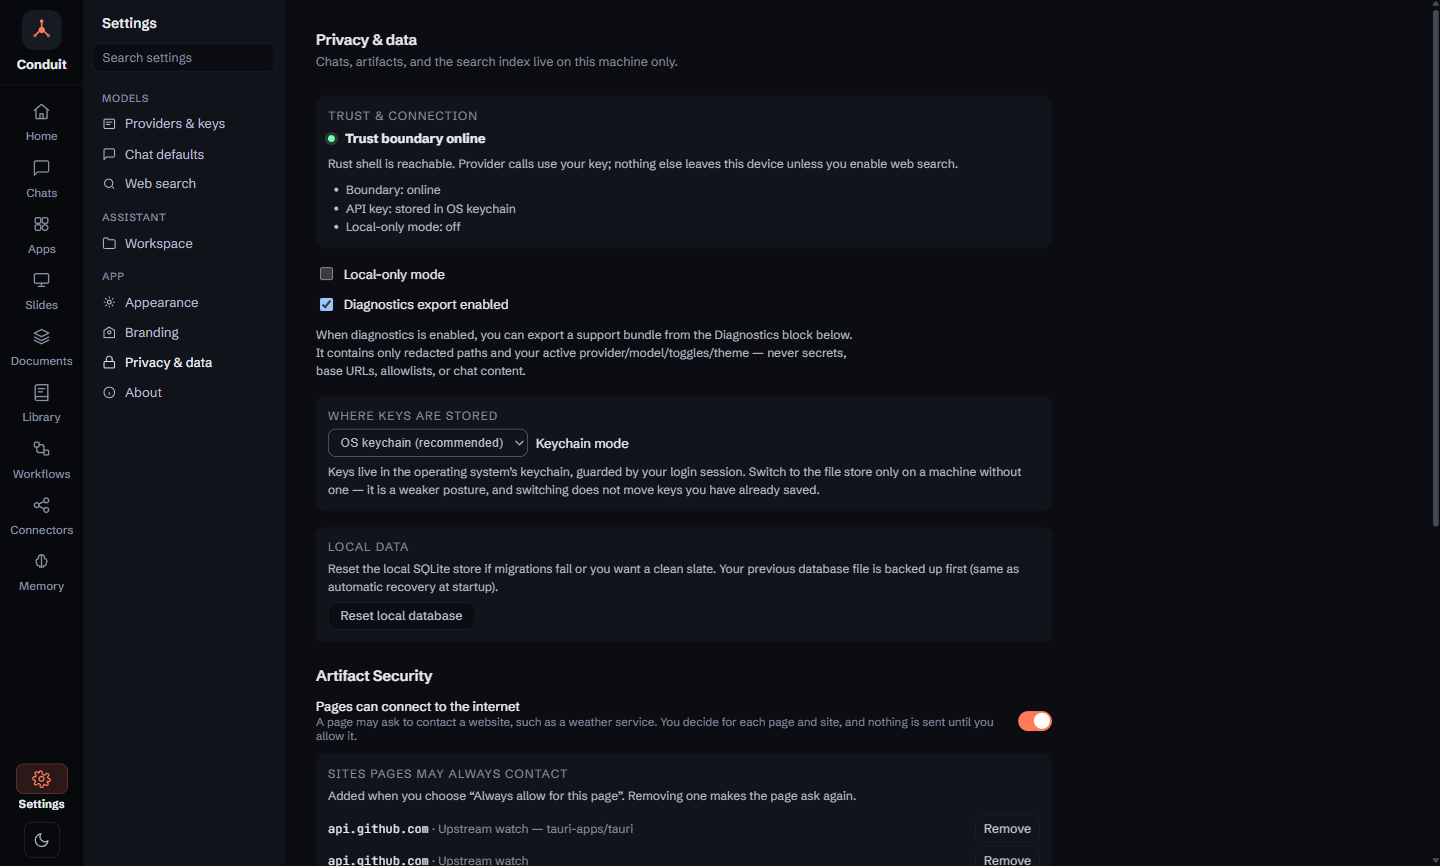
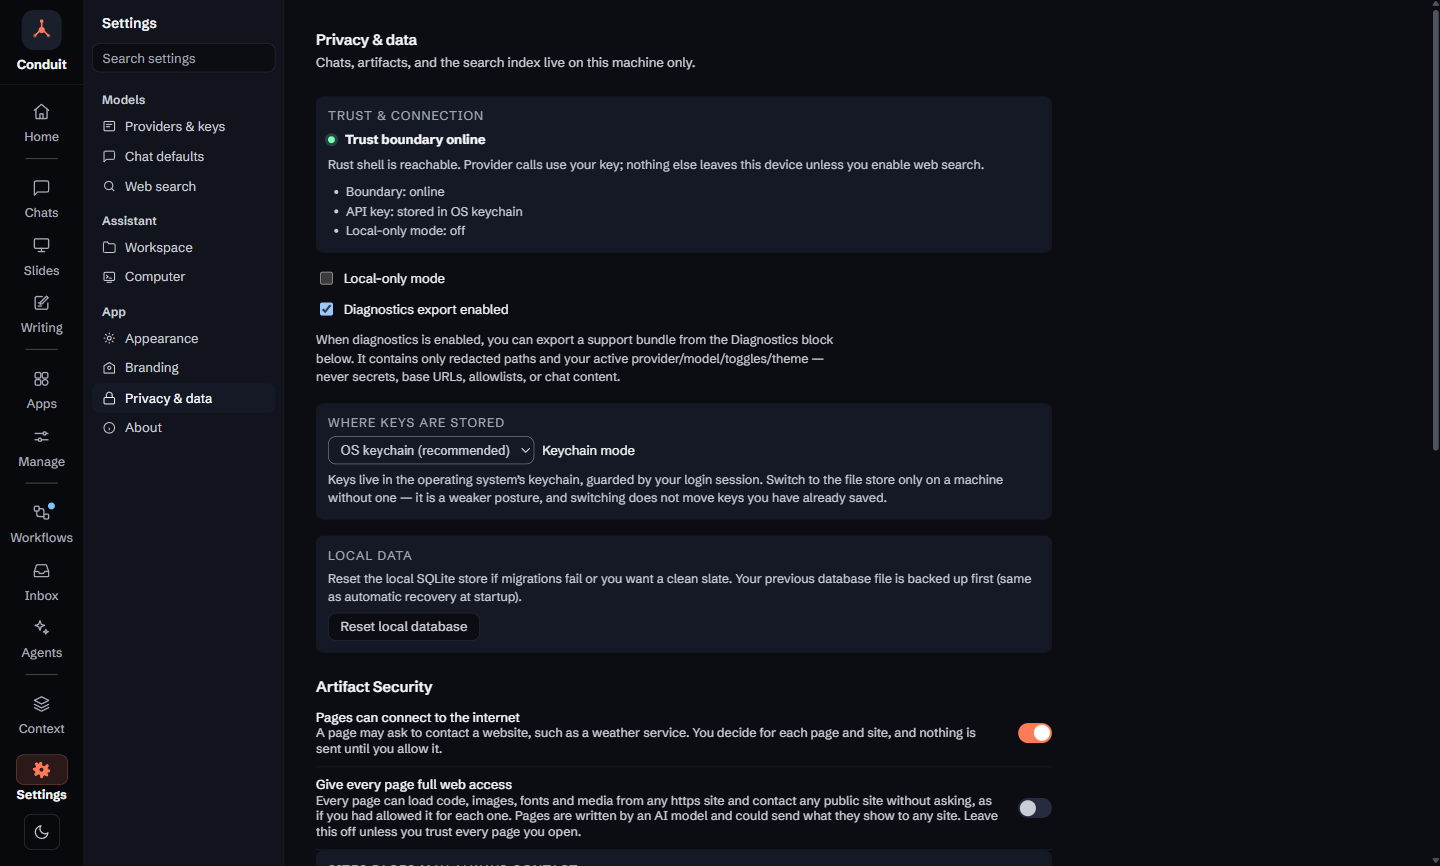
README screenshots in the rc.12 design
Retakes the 16 README screenshots on the Ferry demo profile with
v1.0.0-rc.12: the grouped rail, the new type and colours, the workflow
canvas, and the model-consent prompt as it reads with a cloud provider.
Alt texts updated to match in all eight READMEs.

Claude-Session: https://claude.ai/code/session_01B5pDosonionWBY7e9gKYwg

diff --git a/README.fr.md b/README.fr.md
@@ -51,7 +51,7 @@ côté, contient les détails, l'accès réseau et les apps de départ), et elle
 continue de fonctionner après la suppression de la conversation. Le tableau de bord ci-dessus en est une : elle appelle l'API
 GitHub en direct, après avoir demandé une fois l'autorisation pour ce site.
 
-![La page Apps : trois apps personnelles (Upstream watch, un minuteur Pomodoro et un convertisseur d'unités), et les apps de départ que vous pouvez ajouter](./docs/assets/screenshot-apps.png)
+![La page Apps : six apps personnelles sous forme de cartes (Budget tracker, Snake, Weather dashboard, Pomodoro timer, Unit converter, Upstream watch), chacune avec ce qu’elle peut faire](./docs/assets/screenshot-apps.png)
 
 Les apps personnelles peuvent faire trois choses qu'une simple page cloisonnée
 ne peut pas, chacune déclarée par la page et vérifiée par Conduit :
@@ -76,7 +76,7 @@ d'une ligne, jamais les prompts, les réponses ni les valeurs enregistrées. Neu
 **apps de départ** sont fournies, d'un minuteur Pomodoro à un tableau de bord
 météo en direct.
 
-![Une page demandant à utiliser le modèle d'IA : la demande nomme LM Studio et indique qu'il s'exécute sur cet appareil](./docs/assets/screenshot-llm-consent.png)
+![Une app personnelle demandant à utiliser le modèle d'IA : la demande nomme OpenRouter, indique que ce que la page écrit lui est envoyé, et propose Ne pas autoriser, Autoriser cette fois ou Toujours autoriser](./docs/assets/screenshot-llm-consent.png)
 
 ### Présentations
 
@@ -198,7 +198,7 @@ activation des exécutions automatiques affiche tout ce que le flux sera autoris
 s'interrompt et demande. Une exécution qui attend votre réponse reprend après
 un redémarrage de Conduit.
 
-![Un flux « Tauri blog digest » rédigé à partir d’une description d’une ligne : il surveille le flux du blog Tauri, résume chaque nouvel article avec un modèle choisi pour cette étape, enregistre un document et prévient ; en dessous, ce qu’il peut faire seul et sa première exécution de test](./docs/assets/screenshot-workflows.png)
+![Un flux « Weekly Ferry team brief » sur le canevas : deux pages récupérées et résumées côte à côte, puis combinées, chaque étape terminée ; à droite, le résultat de la dernière exécution](./docs/assets/screenshot-workflows.png)
 
 Un flux s'ouvre sur un **canevas** : un nœud par étape, dont l'état s'affiche en
 direct pendant l'exécution. Vous pouvez aussi modifier sur le canevas : ajoutez
@@ -277,7 +277,7 @@ celui que vous avez utilisé en dernier. `Ctrl+1` à `Ctrl+9` (`⌘` sur macOS)
 mènent aux espaces (`Ctrl+/` indique lequel est lequel), et la palette de
 commandes (`Ctrl+K`) propose une entrée « Aller à » pour chacun.
 
-![Accueil : la zone de saisie avec des démarrages rapides, deux suggestions de mémoire en attente de revue, ainsi que les conversations récentes et la présentation du post-mortem à reprendre](./docs/assets/screenshot-home.png)
+![Accueil : la zone de saisie avec des démarrages rapides, deux suggestions de mémoire qui vous attendent, un résultat récent de flux de travail, ainsi que la présentation, la conversation et le brouillon à reprendre](./docs/assets/screenshot-home.png)
 
 ### Tous les modèles, et le web
 
@@ -296,7 +296,7 @@ dans les Réglages pour obtenir une clé. Des listes de domaines autorisés et
 bloqués la restreignent, et les sources s'affichent avec la réponse et dans
 l'inspecteur.
 
-![Une réponse de recherche web sur Rust 1.90 avec une ligne de recherche (6 sources) et des citations en ligne, reliée à Ferry par la mémoire](./docs/assets/screenshot-search.png)
+![Une réponse de recherche web sur Rust 1.90 avec une ligne de recherche (6 sources) et des citations en ligne](./docs/assets/screenshot-search.png)
 
 Le **+** de la zone de saisie joint des fichiers (images et documents) et ajoute
 la recherche web, un dossier de l'espace de travail que l'assistant peut lire et
@@ -419,7 +419,7 @@ Voir [`CHANGELOG.md`](./CHANGELOG.md) pour le détail de chaque version.
   manuelle ; la recherche en arrière-plan et l'installation à la fermeture sont
   facultatives, et Conduit ne redémarre jamais de lui-même.
 
-![Paramètres → Vie privée & données : l'état de la frontière de confiance, le mode local uniquement, l'endroit où les clés sont stockées et les sites que les pages peuvent toujours contacter](./docs/assets/screenshot-privacy.png)
+![Paramètres → Vie privée & données : l'état de la frontière de confiance, le mode local uniquement, l'export de diagnostics, l'endroit où les clés sont stockées, les données locales et les réglages de sécurité des artefacts](./docs/assets/screenshot-privacy.png)
 
 ## État
 

diff --git a/README.zh-CN.md b/README.zh-CN.md
@@ -43,7 +43,7 @@ Rust 和 Tauri 开发。
 网络访问和入门应用）中打开它，即使删除了那段聊天，它也能继续使用。上面的仪表盘就是一个例子：它会实时调用
 GitHub API，并且只在首次访问该网站时询问一次。
 
-![应用页面：三个个人应用（上游动态、番茄钟和单位换算器），以及可以添加的入门应用](./docs/assets/screenshot-apps.png)
+![应用页面：六个个人应用以卡片显示（Budget tracker、Snake、Weather dashboard、Pomodoro timer、Unit converter、Upstream watch），每个都标明可以做什么](./docs/assets/screenshot-apps.png)
 
 个人应用可以做到三件沙箱里的普通网页做不到的事，每一件都由页面声明、由 Conduit
 检查：
@@ -62,7 +62,7 @@ GitHub API，并且只在首次访问该网站时询问一次。
 绝不包含提示词、回复或已保存的值。内置九个**入门应用**，从番茄钟到实时天气仪表盘
 一应俱全。
 
-![一个请求使用 AI 模型的页面：提示写明了 LM Studio，并说明它运行在这台设备上](./docs/assets/screenshot-llm-consent.png)
+![一个个人应用请求使用 AI 模型：提示写明了 OpenRouter，说明页面写入的内容会发送到那里，并提供“不允许”“仅本次允许”“始终允许”](./docs/assets/screenshot-llm-consent.png)
 
 ### 幻灯片
 
@@ -145,7 +145,7 @@ GitHub API，并且只在首次访问该网站时询问一次。
 首次开启自动运行时，会先列出该工作流被允许自行完成的所有操作，供你批准；需要更多
 权限的运行会暂停并询问。正在等你处理的运行，在你重启 Conduit 后会继续进行。
 
-![一个由一句话描述起草的“Tauri blog digest”工作流：它监视 Tauri 博客的订阅源，用为该步骤选定的模型总结每篇新文章，保存为文档并发出通知；下方是它可以自行执行的操作及第一次测试运行](./docs/assets/screenshot-workflows.png)
+![画布上的“Weekly Ferry team brief”工作流：两个页面并排抓取并总结，再合并，每个步骤均已完成；右侧是最近一次运行的结果](./docs/assets/screenshot-workflows.png)
 
 工作流以**画布**的形式打开：每个步骤是一个节点，运行时会实时显示其状态。在画布上也
 可以编辑：从菜单添加步骤，拖到合适的位置，再从一个步骤的输出连线到另一个步骤的
@@ -197,7 +197,7 @@ GitHub API，并且只在首次访问该网站时询问一次。
 区域（`Ctrl+/` 会列出哪个键对应哪个区域），命令面板（`Ctrl+K`）中每个区域也都有
 一个“前往”条目。
 
-![首页：带有快速开始的输入框、两条等待查看的记忆建议，以及可以继续的最近聊天和复盘演示文稿](./docs/assets/screenshot-home.png)
+![首页：带有快速开始的输入框、两条需要你处理的记忆建议、一条新的工作流结果，以及可以继续的演示文稿、聊天和草稿](./docs/assets/screenshot-home.png)
 
 ### 任意模型，以及网络
 
@@ -211,7 +211,7 @@ Fireworks AI、LM Studio、Ollama，或任何兼容 OpenAI 的接口。当聊天
 Brave 或你自己的 SearXNG）进行搜索，设置中还有获取密钥的链接。允许与屏蔽的域名
 列表可以缩小搜索范围，来源会显示在回答中以及检查器里。
 
-![一个关于 Rust 1.90 的网页搜索回答，带有搜索行（6 个来源）和内联引用，并通过记忆与 Ferry 关联起来](./docs/assets/screenshot-search.png)
+![一个关于 Rust 1.90 的网页搜索回答，带有搜索行（6 个来源）和内联引用](./docs/assets/screenshot-search.png)
 
 输入区里的 **+** 可以附加文件（图像和文档），并添加网页搜索、助手可读写的工作区
 文件夹、文档集合、技能和连接器提示词。一轮回复进行期间，你可以排队追加一条后续消息，或者打断并引导
@@ -301,7 +301,7 @@ Brave 或你自己的 SearXNG）进行搜索，设置中还有获取密钥的链
 - **没有遥测。** 更新检查需要主动开启，且仅发送 `Conduit-Updater/<version>`。
   默认仅手动检查；后台检查与退出时安装均需主动开启，且 Conduit 绝不会自行重启。
 
-![设置 → 隐私与数据：信任边界状态、仅本地模式、密钥的存放位置，以及页面可始终访问的网站](./docs/assets/screenshot-privacy.png)
+![设置 → 隐私与数据：信任边界状态、仅本地模式、诊断导出、密钥的存放位置、本地数据和构件安全开关](./docs/assets/screenshot-privacy.png)
 
 ## 状态
 

diff --git a/README.de.md b/README.de.md
@@ -51,7 +51,7 @@ daneben enthält Details, Netzwerkzugriff und Starter-Apps), und sie
 funktioniert weiter, auch wenn Sie den Chat löschen. Das Dashboard oben ist eine solche App: Es ruft die GitHub-API live ab,
 nachdem es einmal für diese Website nachgefragt hat.
 
-![Die Apps-Seite: drei persönliche Apps (Upstream watch, ein Pomodoro-Timer und ein Einheitenumrechner) und die Starter-Apps, die Sie hinzufügen können](./docs/assets/screenshot-apps.png)
+![Die Apps-Seite: sechs persönliche Apps als Karten (Budget tracker, Snake, Weather dashboard, Pomodoro timer, Unit converter, Upstream watch), jeweils mit dem, was sie tun dürfen](./docs/assets/screenshot-apps.png)
 
 Persönliche Apps können drei Dinge, die eine einfache Seite in einer Sandbox
 nicht kann, jeweils von der Seite deklariert und von Conduit geprüft:
@@ -75,7 +75,7 @@ Websites und Anbieter, die sie nutzen darf, und eine Woche einzeiliger
 Aktivitätseinträge, nie Prompts, Antworten oder gespeicherte Werte. Neun
 **Starter-Apps** sind eingebaut, vom Pomodoro-Timer bis zum Live-Wetter-Dashboard.
 
-![Eine Seite, die um die Nutzung des KI-Modells bittet: Die Abfrage nennt LM Studio und sagt, dass es auf diesem Gerät läuft](./docs/assets/screenshot-llm-consent.png)
+![Eine persönliche App bittet um die Nutzung des KI-Modells: Die Abfrage nennt OpenRouter, sagt, dass die Eingaben der Seite dorthin gesendet werden, und bietet Nicht erlauben, Dieses Mal erlauben und Immer erlauben](./docs/assets/screenshot-llm-consent.png)
 
 ### Folien
 
@@ -192,7 +192,7 @@ der Workflow von selbst tun darf, und kann es freigeben; ein Durchlauf, der mehr
 braucht, hält an und fragt nach. Ein Durchlauf, der auf Sie wartet, läuft nach
 einem Neustart von Conduit weiter.
 
-![Ein Workflow „Tauri blog digest“, aus einer einzeiligen Beschreibung entworfen: Er beobachtet den Feed des Tauri-Blogs, fasst jeden neuen Beitrag mit einem für diesen Schritt gewählten Modell zusammen, speichert ein Dokument und benachrichtigt; darunter, was er allein tun darf, und sein erster Testlauf](./docs/assets/screenshot-workflows.png)
+![Ein Workflow „Weekly Ferry team brief“ auf der Arbeitsfläche: zwei Seiten werden nebeneinander abgerufen und zusammengefasst, dann zusammengeführt, jeder Schritt abgeschlossen; rechts das Ergebnis des letzten Laufs](./docs/assets/screenshot-workflows.png)
 
 Ein Workflow öffnet sich als **Zeichenfläche**: ein Knoten pro Schritt, dessen
 Status während des Laufs live angezeigt wird. Auch das Bearbeiten geht auf der
@@ -271,7 +271,7 @@ genutzt haben. `Ctrl+1` bis `Ctrl+9` (`⌘` unter macOS) springen zu den
 Bereichen (`Ctrl+/` zeigt, welcher welcher ist), und die Befehlspalette
 (`Ctrl+K`) hat zu jedem einen Eintrag „Gehe zu“.
 
-![Start: das Eingabefeld mit Schnellstarts, zwei Vorschläge für gespeicherte Fakten, die auf Prüfung warten, sowie letzte Chats und die Postmortem-Präsentation zum Weitermachen](./docs/assets/screenshot-home.png)
+![Start: das Eingabefeld mit Schnellstarts, zwei Vorschläge für gespeicherte Fakten, die Sie brauchen, ein frisches Workflow-Ergebnis sowie Präsentation, Chat und Entwurf zum Weitermachen](./docs/assets/screenshot-home.png)
 
 ### Jedes Modell und das Web
 
@@ -288,7 +288,7 @@ sucht über Exa, das keinen Schlüssel braucht, oder über einen Dienst Ihrer Wa
 einen Schlüssel zu holen. Listen erlaubter und gesperrter Domains grenzen sie
 ein, und Quellen werden mit der Antwort und im Inspektor angezeigt.
 
-![Eine Websuche-Antwort zu Rust 1.90 mit einer Suchzeile (6 Quellen) und Inline-Quellenangaben, über gespeicherte Fakten mit Ferry verknüpft](./docs/assets/screenshot-search.png)
+![Eine Websuche-Antwort zu Rust 1.90 mit einer Suchzeile (6 Quellen) und Inline-Quellenangaben](./docs/assets/screenshot-search.png)
 
 Das **+** im Eingabefeld hängt Dateien (Bilder und Dokumente) an und fügt
 Websuche, einen Arbeitsbereich-Ordner, den der Assistent lesen und bearbeiten
@@ -409,7 +409,7 @@ Siehe [`CHANGELOG.md`](./CHANGELOG.md) für alles, was in jeder Version enthalte
   Hintergrundsuche und Installation beim Beenden sind optional, und Conduit
   startet sich nie selbst neu.
 
-![Einstellungen → Datenschutz & Daten: der Status der Vertrauensgrenze, der Nur-lokal-Modus, wo Schlüssel gespeichert sind und die Websites, die Seiten immer kontaktieren dürfen](./docs/assets/screenshot-privacy.png)
+![Einstellungen → Datenschutz & Daten: der Status der Vertrauensgrenze, der Nur-lokal-Modus, der Diagnose-Export, wo Schlüssel gespeichert sind, lokale Daten und die Sicherheitsschalter für Artefakte](./docs/assets/screenshot-privacy.png)
 
 ## Status
 

diff --git a/README.md b/README.md
@@ -46,7 +46,7 @@ you delete the chat.
 The dashboard above is one: it calls the GitHub API live, after asking once for
 that site.
 
-![The Apps page: three personal apps (Upstream watch, a Pomodoro timer and a unit converter), and the starter apps you can add](./docs/assets/screenshot-apps.png)
+![The Apps page: six personal apps as cards (Budget tracker, Snake, Weather dashboard, Pomodoro timer, Unit converter, Upstream watch), each showing what it may do](./docs/assets/screenshot-apps.png)
 
 Personal apps can do three things a plain page in a sandbox can't, each
 declared by the page and checked by Conduit:
@@ -66,7 +66,7 @@ the sites and providers it may use, and a week of one-line activity records,
 never prompts, replies or saved values. Nine **starter apps** come built in,
 from a Pomodoro timer to a live weather dashboard.
 
-![A page asking to use the AI model: the prompt names LM Studio and says it runs on this device](./docs/assets/screenshot-llm-consent.png)
+![A personal app asking to use the AI model: the prompt names OpenRouter, says what the page writes is sent there, and offers Don't allow, Allow this time or Always allow](./docs/assets/screenshot-llm-consent.png)
 
 ### Slides
 
@@ -168,7 +168,7 @@ automatic runs on first lists everything the workflow will be allowed to do on
 its own, for you to approve, and a run that needs more pauses and asks. A run
 that is waiting for you carries on after you restart Conduit.
 
-![A "Tauri blog digest" workflow drafted from a one-line description: it watches the Tauri blog feed, summarises each new post with a model chosen for that step, saves a document and notifies; below, what it may do on its own and its first test run](./docs/assets/screenshot-workflows.png)
+![A "Weekly Ferry team brief" workflow on the canvas: two pages fetched and summarised side by side, then combined, every step finished; on the right, the latest run's result](./docs/assets/screenshot-workflows.png)
 
 A workflow opens as a **canvas**: a node for each step, with its status shown
 live while it runs. Edit on the canvas too: add steps from a menu, drag them
@@ -233,7 +233,7 @@ reopens on the one you used last. `Ctrl+1` to `Ctrl+9` (`⌘` on macOS) jump to
 the areas (`Ctrl+/` lists which is which), and the command palette (`Ctrl+K`)
 has a "Go to" entry for each.
 
-![Home: the ask box with quick starts, two memory suggestions waiting for review, and recent chats and the postmortem deck to pick up](./docs/assets/screenshot-home.png)
+![Home: the ask box with quick starts, two memory suggestions that need you, a fresh workflow result, and the deck, chat and draft to pick up](./docs/assets/screenshot-home.png)
 
 ### Every model, and the web
 
@@ -249,7 +249,7 @@ Exa, which needs no key, or a service you choose (Tavily, Brave or your own
 SearXNG), with a link in Settings to get a key. Allowed and blocked domain lists
 narrow it, and sources show with the answer and in the inspector.
 
-![A web search answer about Rust 1.90 with a search row (6 sources) and inline citations, tied back to Ferry through memory](./docs/assets/screenshot-search.png)
+![A web search answer about Rust 1.90 with a search row (6 sources) and inline citations](./docs/assets/screenshot-search.png)
 
 The **+** in the composer attaches files (images and documents) and adds web
 search, a workspace folder the assistant can read and edit, document
@@ -352,7 +352,7 @@ See [`CHANGELOG.md`](./CHANGELOG.md) for everything in each release.
   `Conduit-Updater/<version>`. Checking is manual by default; background
   checking and install-on-quit are opt-in, and Conduit never restarts itself.
 
-![Settings → Privacy & data: the trust boundary status, local-only mode, where keys are stored, and the sites pages may always contact](./docs/assets/screenshot-privacy.png)
+![Settings → Privacy & data: the trust boundary status, local-only mode, diagnostics export, where keys are stored, local data, and the artifact security switches](./docs/assets/screenshot-privacy.png)
 
 ## Status
 
